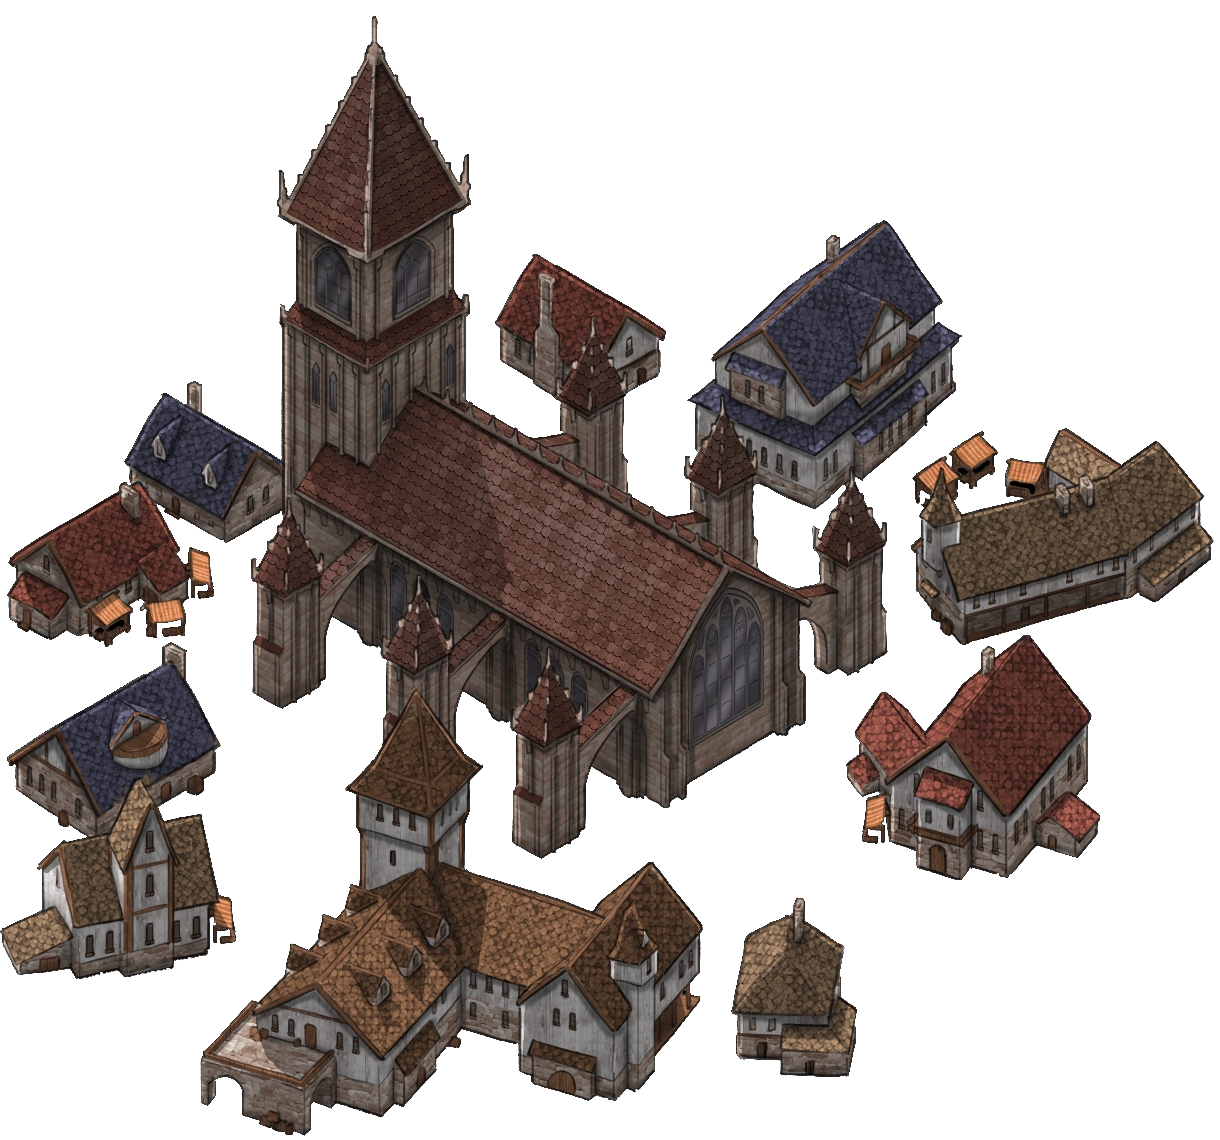
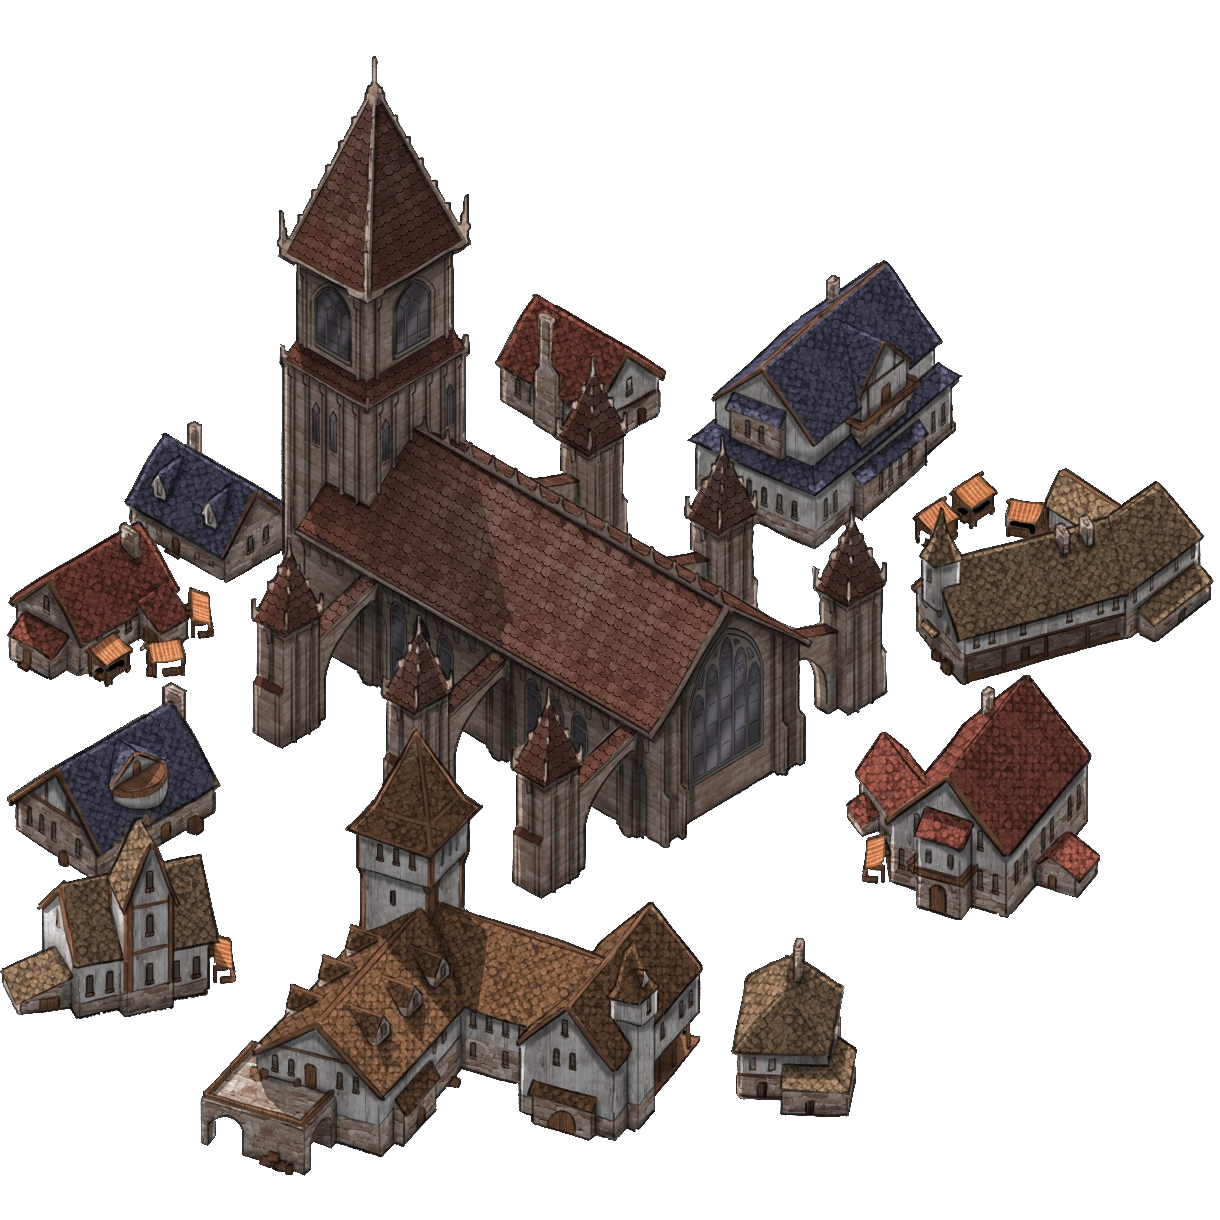
adicionando todas as imagens com display grid para melhor visualização

diff --git a/components/Grid.js b/components/Grid.js
@@ -11,35 +11,90 @@ function Grid(props) {
 
   switch (props.mostrar) {
     case "regiao":
-      imagemMostrada = <img src="/assentamento.png" alt="cidade" className={styles.imagem__cidade} onClick={handleClick} />;
+      imagemMostrada = (
+        <div
+          className={styles.imagem__regiao}
+          style={{ backgroundImage: `url(${props.background})` }}
+        >
+          <img
+            src="/assentamento.png"
+            alt="cidade"
+            className={styles.imagem__cidade}
+            onClick={handleClick}
+          />
+        </div>
+      );
       break;
     case "cidade":
-      imagemMostrada = <div className={styles.grid__construcoes}>
-        <img src="/construcoes/central-adm.png" className={styles.contrucao__item +" "+ styles.construcao__central} alt="Central Administrativa" />
-        <img src="/construcoes/banco.png" className={styles.contrucao__item +" "+ styles.construcao__banco} alt="Banco" />
-        <img src="/construcoes/estalagem.png" className={styles.contrucao__item +" "+ styles.construcao__estalagem} alt="Estalagem" />
-        <img src="/construcoes/mercado.png" className={styles.contrucao__item +" "+ styles.construcao__mercado} alt="Mercado" />
-        <img src="/construcoes/milicia.png" className={styles.contrucao__item +" "+ styles.construcao__milicia} alt="Milícia" />
-        <img src="/construcoes/mina.png" className={styles.contrucao__item +" "+ styles.construcao__mina} alt="Mina" />
-        <img src="/construcoes/porto.png" className={styles.contrucao__item +" "+ styles.construcao__porto} alt="Porto" />
-        <img src="/construcoes/templo.png" className={styles.contrucao__item +" "+ styles.construcao__templo} alt="Templo" />
-        <img src="/construcoes/torre-mago.png" className={styles.contrucao__item +" "+ styles.construcao__mago} alt="Torre do Mago" />
-        <img src="/construcoes/torre-vigia.png" className={styles.contrucao__item +" "+ styles.construcao__vigia} alt="Torre de Vigia" />
-      </div>;
+      imagemMostrada = (
+        <div
+          className={styles.grid__construcoes}
+          style={{ backgroundImage: `url(${props.background})` }}
+        >
+          <img
+            src="/construcoes/central-adm.png"
+            className={
+              styles.contrucao__item + " " + styles.construcao__central
+            }
+            alt="Central Administrativa"
+          />
+          <img
+            src="/construcoes/banco.png"
+            className={styles.contrucao__item + " " + styles.construcao__banco}
+            alt="Banco"
+          />
+          <img
+            src="/construcoes/estalagem.png"
+            className={
+              styles.contrucao__item + " " + styles.construcao__estalagem
+            }
+            alt="Estalagem"
+          />
+          <img
+            src="/construcoes/mercado.png"
+            className={
+              styles.contrucao__item + " " + styles.construcao__mercado
+            }
+            alt="Mercado"
+          />
+          <img
+            src="/construcoes/milicia.png"
+            className={
+              styles.contrucao__item + " " + styles.construcao__milicia
+            }
+            alt="Milícia"
+          />
+          <img
+            src="/construcoes/mina.png"
+            className={styles.contrucao__item + " " + styles.construcao__mina}
+            alt="Mina"
+          />
+          <img
+            src="/construcoes/porto.png"
+            className={styles.contrucao__item + " " + styles.construcao__porto}
+            alt="Porto"
+          />
+          <img
+            src="/construcoes/templo.png"
+            className={styles.contrucao__item + " " + styles.construcao__templo}
+            alt="Templo"
+          />
+          <img
+            src="/construcoes/torre-mago.png"
+            className={styles.contrucao__item + " " + styles.construcao__mago}
+            alt="Torre do Mago"
+          />
+          <img
+            src="/construcoes/torre-vigia.png"
+            className={styles.contrucao__item + " " + styles.construcao__vigia}
+            alt="Torre de Vigia"
+          />
+        </div>
+      );
       break;
   }
 
-  return (
-    <>
-      <div
-        className={styles.imagem__regiao}
-        style={{ backgroundImage: `url(${props.background})` }}
-      >
-        {imagemMostrada}
-
-      </div>
-    </>
-  );
+  return <>{imagemMostrada}</>;
 }
 
 export default Grid;

diff --git a/styles/Grid.module.css b/styles/Grid.module.css
@@ -3,20 +3,19 @@
     height: 100%;
     border: solid 0.3rem var(--cor-primaria-texto);
     border-radius: 0.5rem;
-    z-index: 0;
     background-size: cover;
     background-position: center;
+    display: grid;
+    grid-template-columns: repeat(7, 1fr);
+    grid-template-rows: repeat(8, 1fr);
 }
 
 .imagem__cidade {
-    width: 10%;
+    width: 100%;
     border-radius: 50%;
-    z-index: 1;
-    position: relative;
-    left: 60%;
-    top: 42%;
     cursor: pointer;
     background-color: rgba(211,211,211,0.3);
+    grid-area: 4 / 5;
 }
 
 .imagem__cidade:hover {
@@ -24,11 +23,15 @@
 }
 
 .grid__construcoes {
-    display: grid;
-    grid-template-columns: repeat(15, 1fr);
-    grid-template-rows: repeat(12, 1fr);
     width: 100%;
     height: 100%;
+    border: solid 0.3rem var(--cor-primaria-texto);
+    border-radius: 0.5rem;
+    background-size: cover;
+    background-position: center;
+    display: grid;
+    grid-template-columns: repeat(10, 1fr);
+    grid-template-rows: repeat(8, 1fr);
 }
 
 .contrucao__item {
@@ -41,42 +44,42 @@
     background-color: rgba(211,211,211,0.6);
 }
 
-.construcao__central {
-    grid-area: 4 / 7;
-}
-
-.construcao__banco {
-    grid-area: 4 / 6;
-}
-
-.construcao__estalagem {
-    grid-area: 6 / 8;
-}
-
-.construcao__mercado {
-    grid-area: 5 / 7;
-}
-
-.construcao__milicia {
-    grid-area: 6 / 6;
+.construcao__mago {
+    grid-area: 2/4;
 }
 
 .construcao__mina {
-    grid-area: 2 / 9;
+    grid-area: 1 / 6;
 }
 
-.construcao__porto {
-    grid-area: 7 / 9;
+.construcao__banco {
+    grid-area: 3 / 4;
+}
+
+.construcao__central {
+    grid-area: 3 / 5;
 }
 
 .construcao__templo {
-    grid-area: 5 / 6;
+    grid-area: 4 / 4;
 }
 
-.construcao__mago {
-    grid-area: 2/6;
+.construcao__mercado {
+    grid-area: 4 / 5;
 }
 
 .construcao__vigia {
-    grid-area: 5 / 8;
+    grid-area: 4 / 6;
+}
+
+.construcao__milicia {
+    grid-area: 5 / 4;
+}
+
+.construcao__estalagem {
+    grid-area: 5 / 5;
+}
+
+.construcao__porto {
+    grid-area: 5 / 6;
 }

diff --git a/styles/PaginaPrincipal.module.css b/styles/PaginaPrincipal.module.css
@@ -34,6 +34,7 @@
     display: flex;
     width: 100%;
     height: 100%;
+    justify-content: center;
 }
 
 .menu {
@@ -47,6 +48,9 @@
 .principal {
     width: 70%;
     height: 100%;
+    max-width: 890px;
+    max-height: 690px;
+    align-self: center;
 }
 
 @media screen and (max-width: 415px) {
